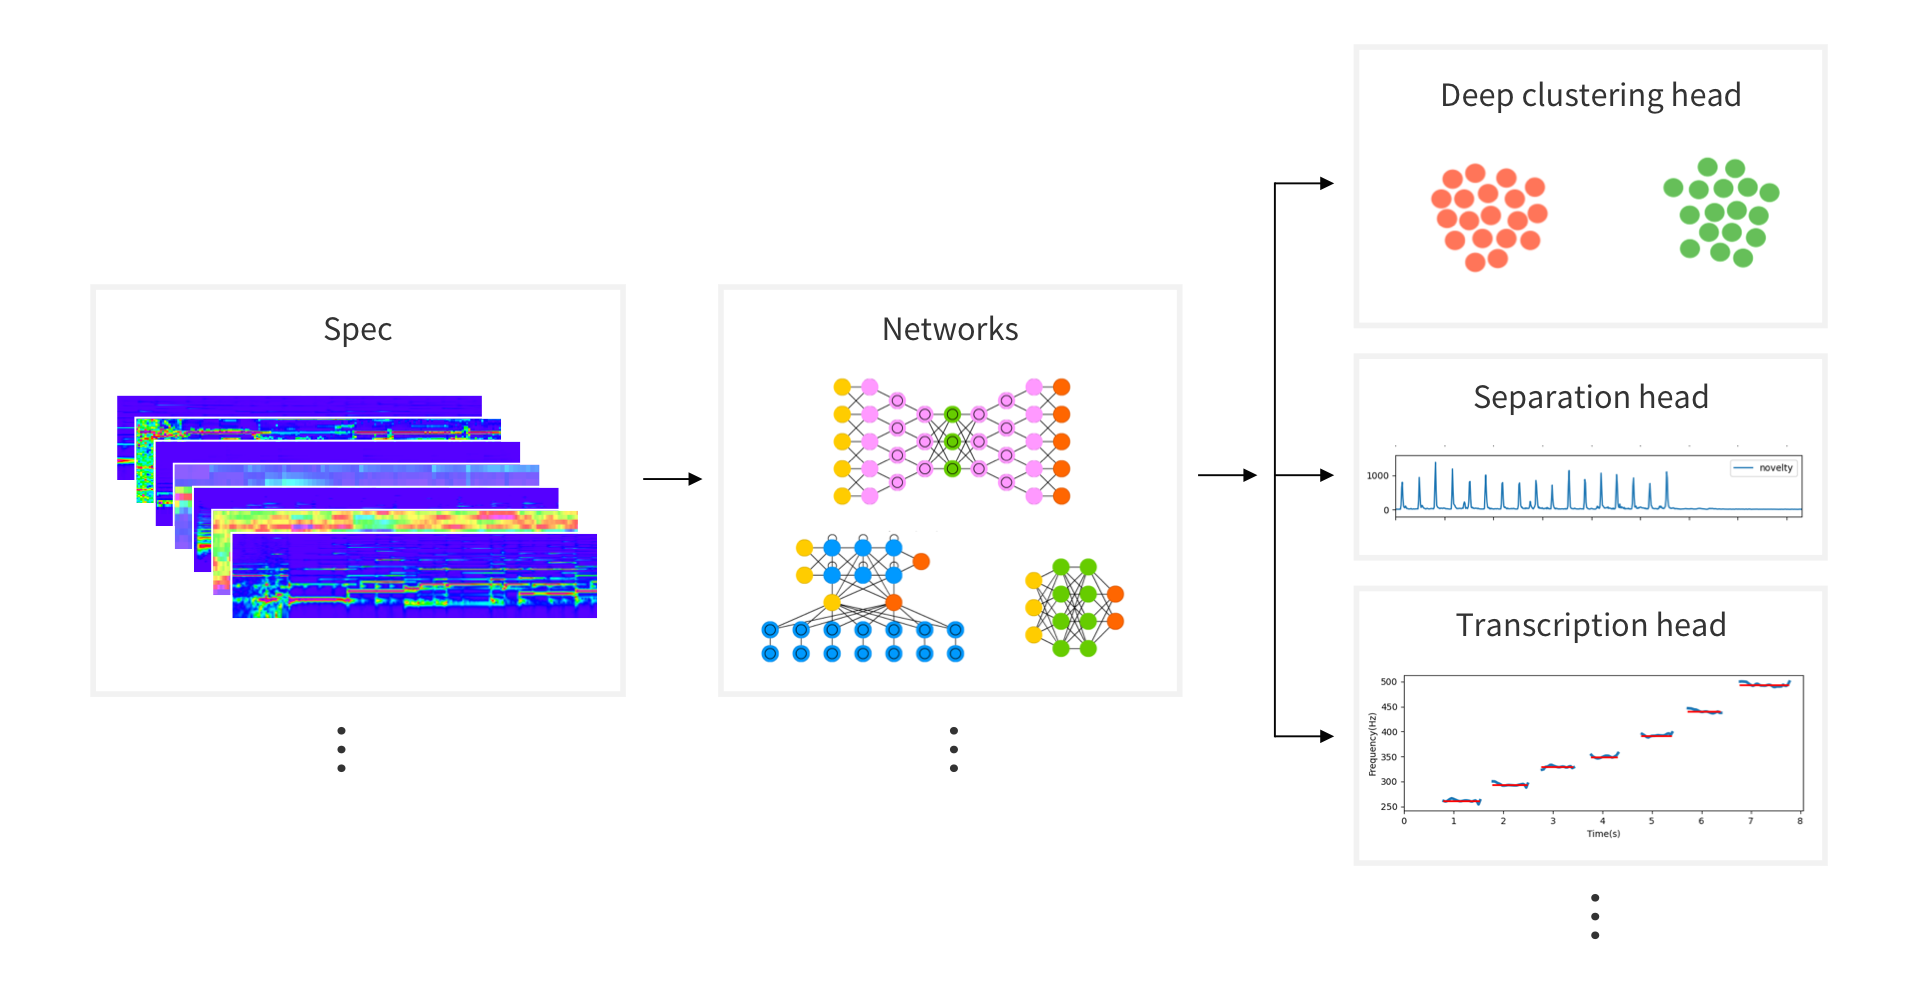
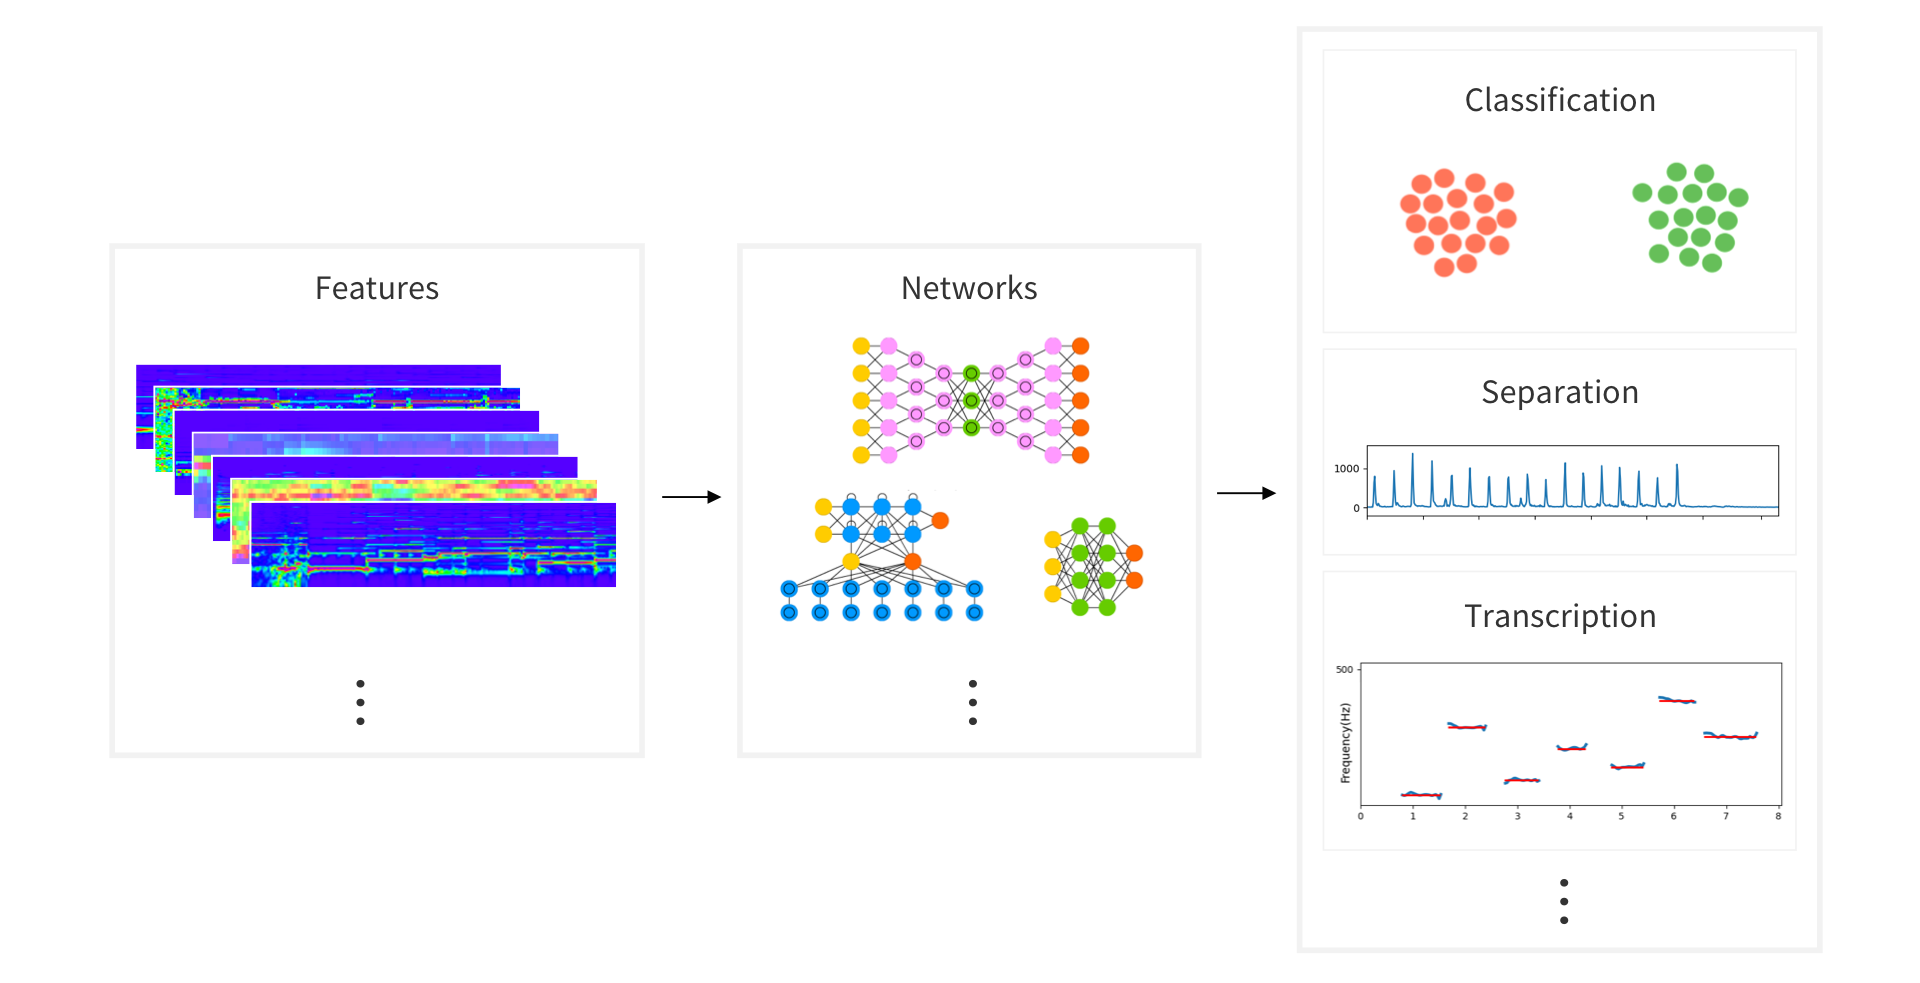
Update README

diff --git a/README.md b/README.md
@@ -56,14 +56,77 @@ field such as Classification, Separation, Music Information Retrieval(MIR) and A
 
 ## Overview
 
-**`audioFlux`** is based on the design of data flow. It decouples each algorithm module structurally, and it is
-convenient, fast and efficient to extract features from large batches.The following are the main feature architecture
-diagrams, specific and detailed description view the documentation.
+**`audioFlux`** is based on data stream design. It decouples each algorithm module in structure, and can quickly and efficiently extract features of multiple dimensions. The following is the main feature architecture diagram.
 
 <img src='./image/feature_all.png'>
 <!--<img src='./feature_all.pdf'>-->
 
+You can use multiple dimensional feature combinations, select different deep learning networks training,  study various tasks in the audio field such as Classification, Separation, MIR etc.
+
 <img src='./image/flow.png'>
+
+
+The main functions of **`audioFlux`** include **transform**, **feature** and **mir** modules.
+
+#### 1. Transform
+
+In the time–frequency representation, main transform algorithm:
+
+- **`BFT`**&nbsp;&nbsp; - &nbsp;&nbsp;Based Fourier Transform, similar short-time Fourier transform.
+- **`NSGT`** - &nbsp; Non-Stationary Gabor Transform.
+- **`CWT`**&nbsp;&nbsp; - &nbsp;&nbsp;Continuous Wavelet Transform.
+- **`PWT`**&nbsp;&nbsp; - &nbsp;&nbsp;Pseudo Wavelet Transform.
+
+<!-- &emsp -->
+
+The above transform supports all the following frequency scale types:
+
+- Linear - Short-time Fourier transform spectrogram.
+- Linspace - Linspace-scale spectrogram.
+- Mel - Mel-scale spectrogram.
+- Bark - Bark-scale spectrogram.
+- Erb - Erb-scale spectrogram.
+- Octave - Octave-scale spectrogram.
+- Log - Logarithmic-scale spectrogram.
+
+The following transform are not supports multiple frequency scale types, only used as independent transform:
+
+- **`CQT`** - &nbsp;&nbsp;Constant-Q Transform.
+- **`VQT`** - &nbsp;&nbsp;Variable-Q Transform.
+- **`ST`**&nbsp;&nbsp; - &nbsp;&nbsp;S-Transform/Stockwell Transform.
+- **`FST`** - &nbsp;&nbsp;Fast S-Transform.
+- **`DWT`** - &nbsp;&nbsp;Discrete Wavelet Transform.
+- **`WPT`** - &nbsp;&nbsp;Wave Packet Transform.
+- **`SWT`** - &nbsp;&nbsp;Stationary Wavelet Transform.
+
+Detailed transform function, description, and use view the documentation.
+
+The *_synchrosqueezing_* or *_reassignment_* is a technique for sharpening a time-frequency representation, contains the
+following algorithms:
+
+- **`reassign`** - reassign transform for `STFT`.
+- **`synsq`** - reassign data use `CWT` data.
+- **`wsst`** - reassign transform for `CWT`.
+
+#### 2. Feature
+
+The feature module contains the following algorithms:
+
+- **`spectral`** - Spectrum feature, supports all spectrum types.
+- **`xxcc`** - Cepstrum coefficients, supports all spectrum types.
+- **`deconv`** - Deconvolution for spectrum, supports all spectrum types.
+- **`chroma`** - Chroma feature, only supports `CQT` spectrum, Linear/Octave spectrum based on `BFT`.
+
+<!-- harmonic pitch class profiles(HPCP) -->
+
+#### 3. MIR
+
+The mir module contains the following algorithms:
+
+- **`pitch`** - YIN, STFT, etc algorithm.
+- **`onset`** - Spectrum flux, novelty, etc algorithm.
+- **`hpss`** - Median filtering, NMF algorithm.
+
 
 ## Installation
 
